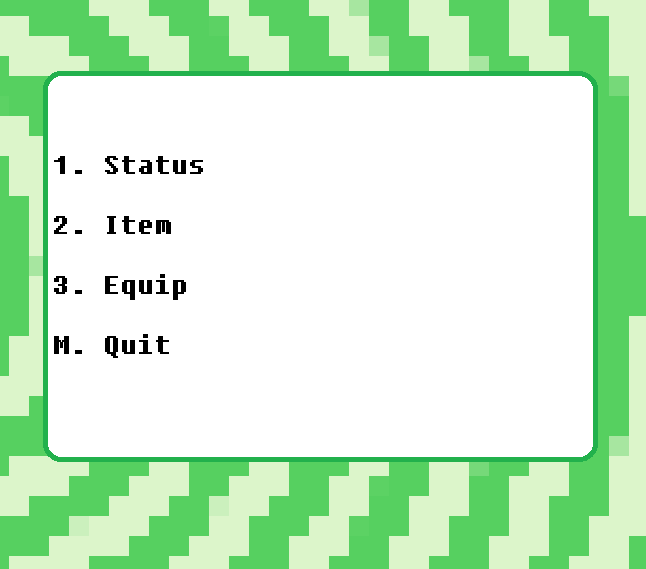
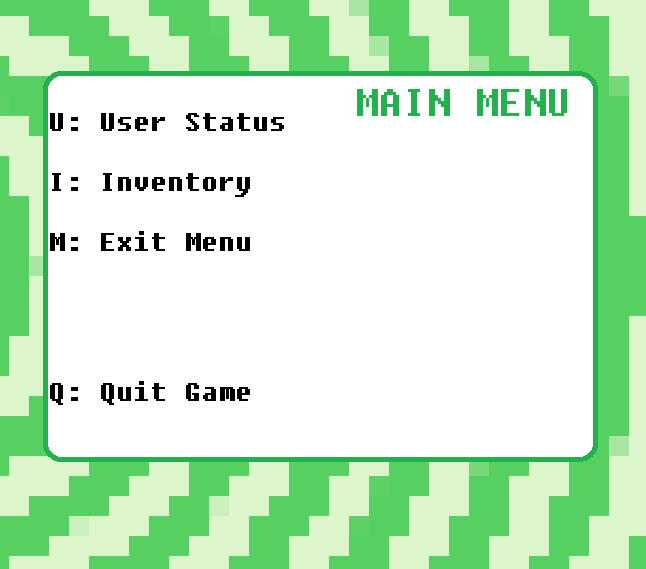
Revised menu system to use letters. removed textBox for now, added shopKeeper menu placedholder, looking at logic for status

diff --git a/RobotSaga.py b/RobotSaga.py
@@ -846,27 +846,35 @@ def keyAction(a):
 
 def menuAction(menuInput):
   bot1Ready = (bot1.weapon.displayed == false and bot1.isMoving == false)
-  if menuInput == "1":
+  if menuInput == "u":
     if bot1Ready:
+         #textBox.sprite.spawnSprite()
          statusMenu.sprite.spawnSprite()
 
 
-  elif menuInput == "2":
+  elif menuInput == "i":
     if bot1Ready:
+        # textBox.sprite.spawnSprite()
          itemMenu.sprite.spawnSprite()
 
-
-  elif menuInput == "3":
+#Not in use, only for testing
+  elif menuInput == "b":
       if bot1Ready:
-          equipMenu.sprite.spawnSprite()
-
+      # textBox.sprite.spawnSprite()
+        shopMenu.sprite.spawnSprite()
+        
+#Not in use, placeholder
+  elif menuInput == "q":
+    if bot1Ready:
+      print "When this works, it will quit game."
 
   elif menuInput == "m":
       if bot1Ready:
            statusMenu.sprite.removeSprite()
            itemMenu.sprite.removeSprite()
-           equipMenu.sprite.removeSprite()
            defaultMenu.sprite.removeSprite()
+           shopMenu.sprite.removeSprite()
+         #  textBox.sprite.removeSprite()
            text.onKeyType(keyAction)
 
 
@@ -3627,7 +3635,8 @@ dungeon_sound = music(path+"Audio/Night-Stalker.wav")
 
 
 #Menu Sprites
-defaultMenu = RawSprite(path +"Menu/menuDefault.png", 230, 0, 0)
-itemMenu = RawSprite(path + "Menu/menuItem.png",230, 0, 0)
-equipMenu = RawSprite(path + "Menu/menuEquip.png",230, 0, 0)
-statusMenu = RawSprite(path + "Menu/menuStatus.png",230, 0, 0)
+defaultMenu = RawSprite(path +"Menu/menuDefault.png", 230, 0, 1)
+itemMenu = RawSprite(path + "Menu/menuItem.png",230, 0, 1)
+statusMenu = RawSprite(path + "Menu/menuStatus.png",230, 0, 1)
+shopMenu = RawSprite (path + "Menu/shopMenu.png", 230, 0, 1)
+#textBox = RawSprite(path + "Menu/textBox.png", 505, 160, 0)
